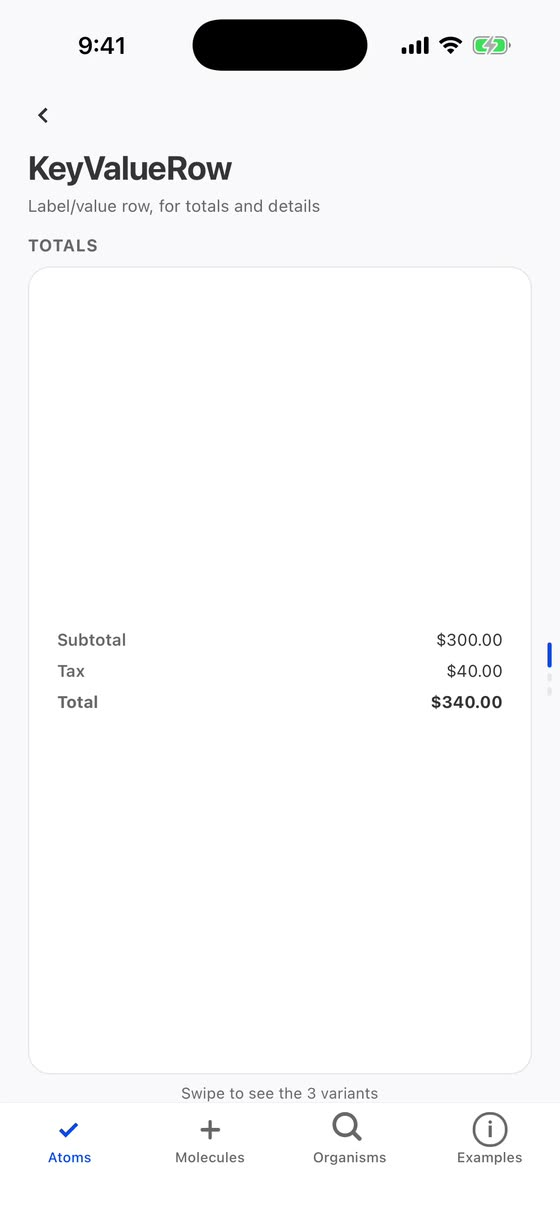
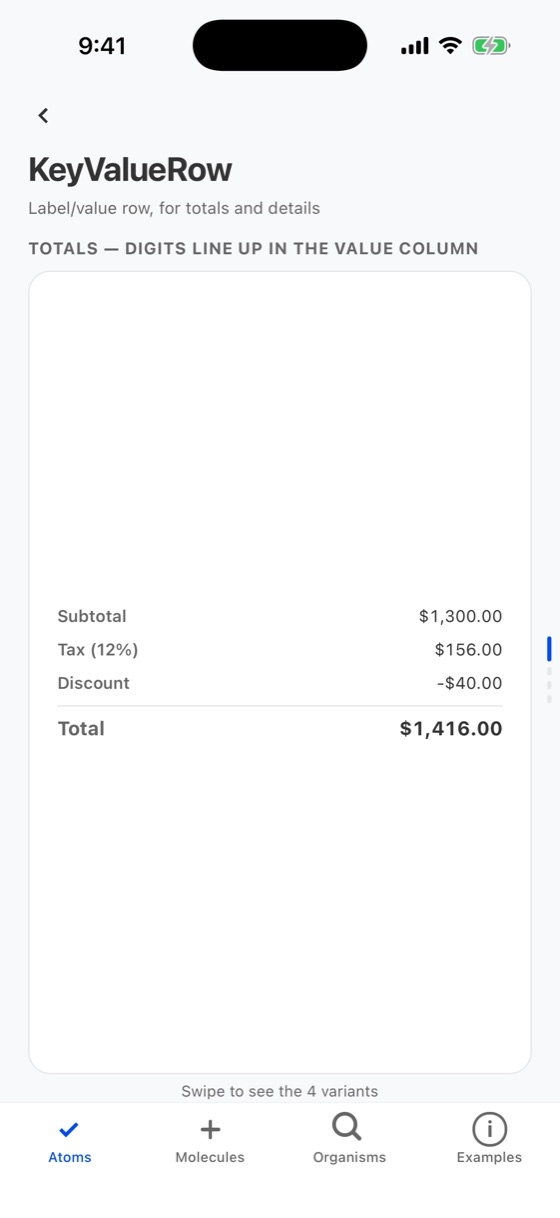
docs(key-value-row): variant stills, Spanish props, changelog

diff --git a/demos/KeyValueRow.demo.tsx b/demos/KeyValueRow.demo.tsx
@@ -1,23 +1,36 @@
 import React from 'react';
 import { View } from 'react-native';
-import { KeyValueRow, Badge } from 'orn-ui';
+import { Badge, Divider, KeyValueRow, useTheme } from 'orn-ui';
 import { VariantList, type VariantDef } from './VariantList';
+
+function Totals() {
+  const theme = useTheme();
+  const strong = { fontWeight: theme.tokens.fontWeight.bold, fontSize: theme.tokens.fontSize.md };
+
+  return (
+    <View style={{ gap: theme.tokens.spacing.sm }}>
+      <KeyValueRow label="Subtotal" value="$1,300.00" />
+      <KeyValueRow label="Tax (12%)" value="$156.00" />
+      <KeyValueRow label="Discount" value="-$40.00" />
+      <Divider />
+      <KeyValueRow label="Total" value="$1,416.00" labelStyle={strong} valueStyle={strong} />
+    </View>
+  );
+}
 
 export function KeyValueRowDemo() {
   // #region demo
   const variants: VariantDef[] = [
+    { label: 'totals — digits line up in the value column', content: <Totals /> },
+    { label: 'numeric value', content: <KeyValueRow label="Items" value={12} /> },
     {
-      label: 'Totals',
-      content: (
-        <View style={{ gap: 8 }}>
-          <KeyValueRow label="Subtotal" value="$300.00" />
-          <KeyValueRow label="Tax" value="$40.00" />
-          <KeyValueRow label="Total" value="$340.00" labelStyle={{ fontWeight: '700' }} valueStyle={{ fontWeight: '700' }} />
-        </View>
-      ),
+      label: 'custom node as value',
+      content: <KeyValueRow label="Status" value={<Badge label="PAID" variant="success" />} />,
     },
-    { label: 'Numeric value', content: <KeyValueRow label="Items" value={12} /> },
-    { label: 'Custom node', content: <KeyValueRow label="Status" value={<Badge label="PAID" variant="success" />} /> },
+    {
+      label: 'long value — wraps inside its half',
+      content: <KeyValueRow label="Billing address" value="1600 Amphitheatre Parkway, Mountain View, CA 94043" />,
+    },
   ];
   return <VariantList variants={variants} />;
   // #endregion demo

diff --git a/src/data/changelog.ts b/src/data/changelog.ts
@@ -378,6 +378,23 @@ export const releases: Release[] = [
           ],
         },
         {
+          component: 'KeyValueRow',
+          items: [
+            {
+              en: 'A long value wraps inside the row instead of pushing it off screen; the label keeps its width up to half the row and lines up with the first line of the value.',
+              es: 'Un valor largo se parte en líneas dentro de la fila en vez de sacarla de la pantalla; el label conserva su ancho hasta la mitad de la fila y se alinea con la primera línea del valor.',
+            },
+            {
+              en: 'Values use tabular digits, so amounts line up across rows.',
+              es: 'Los valores usan dígitos tabulares, así los montos quedan alineados entre filas.',
+            },
+            {
+              en: 'With a text label and value, screen readers read the row as one element ("Subtotal, $300.00"). Adds `testID`.',
+              es: 'Con label y valor de texto, el lector de pantalla lee la fila como un solo elemento ("Subtotal, $300.00"). Se agrega `testID`.',
+            },
+          ],
+        },
+        {
           component: 'Icons',
           page: '/components/icon-button',
           items: [
